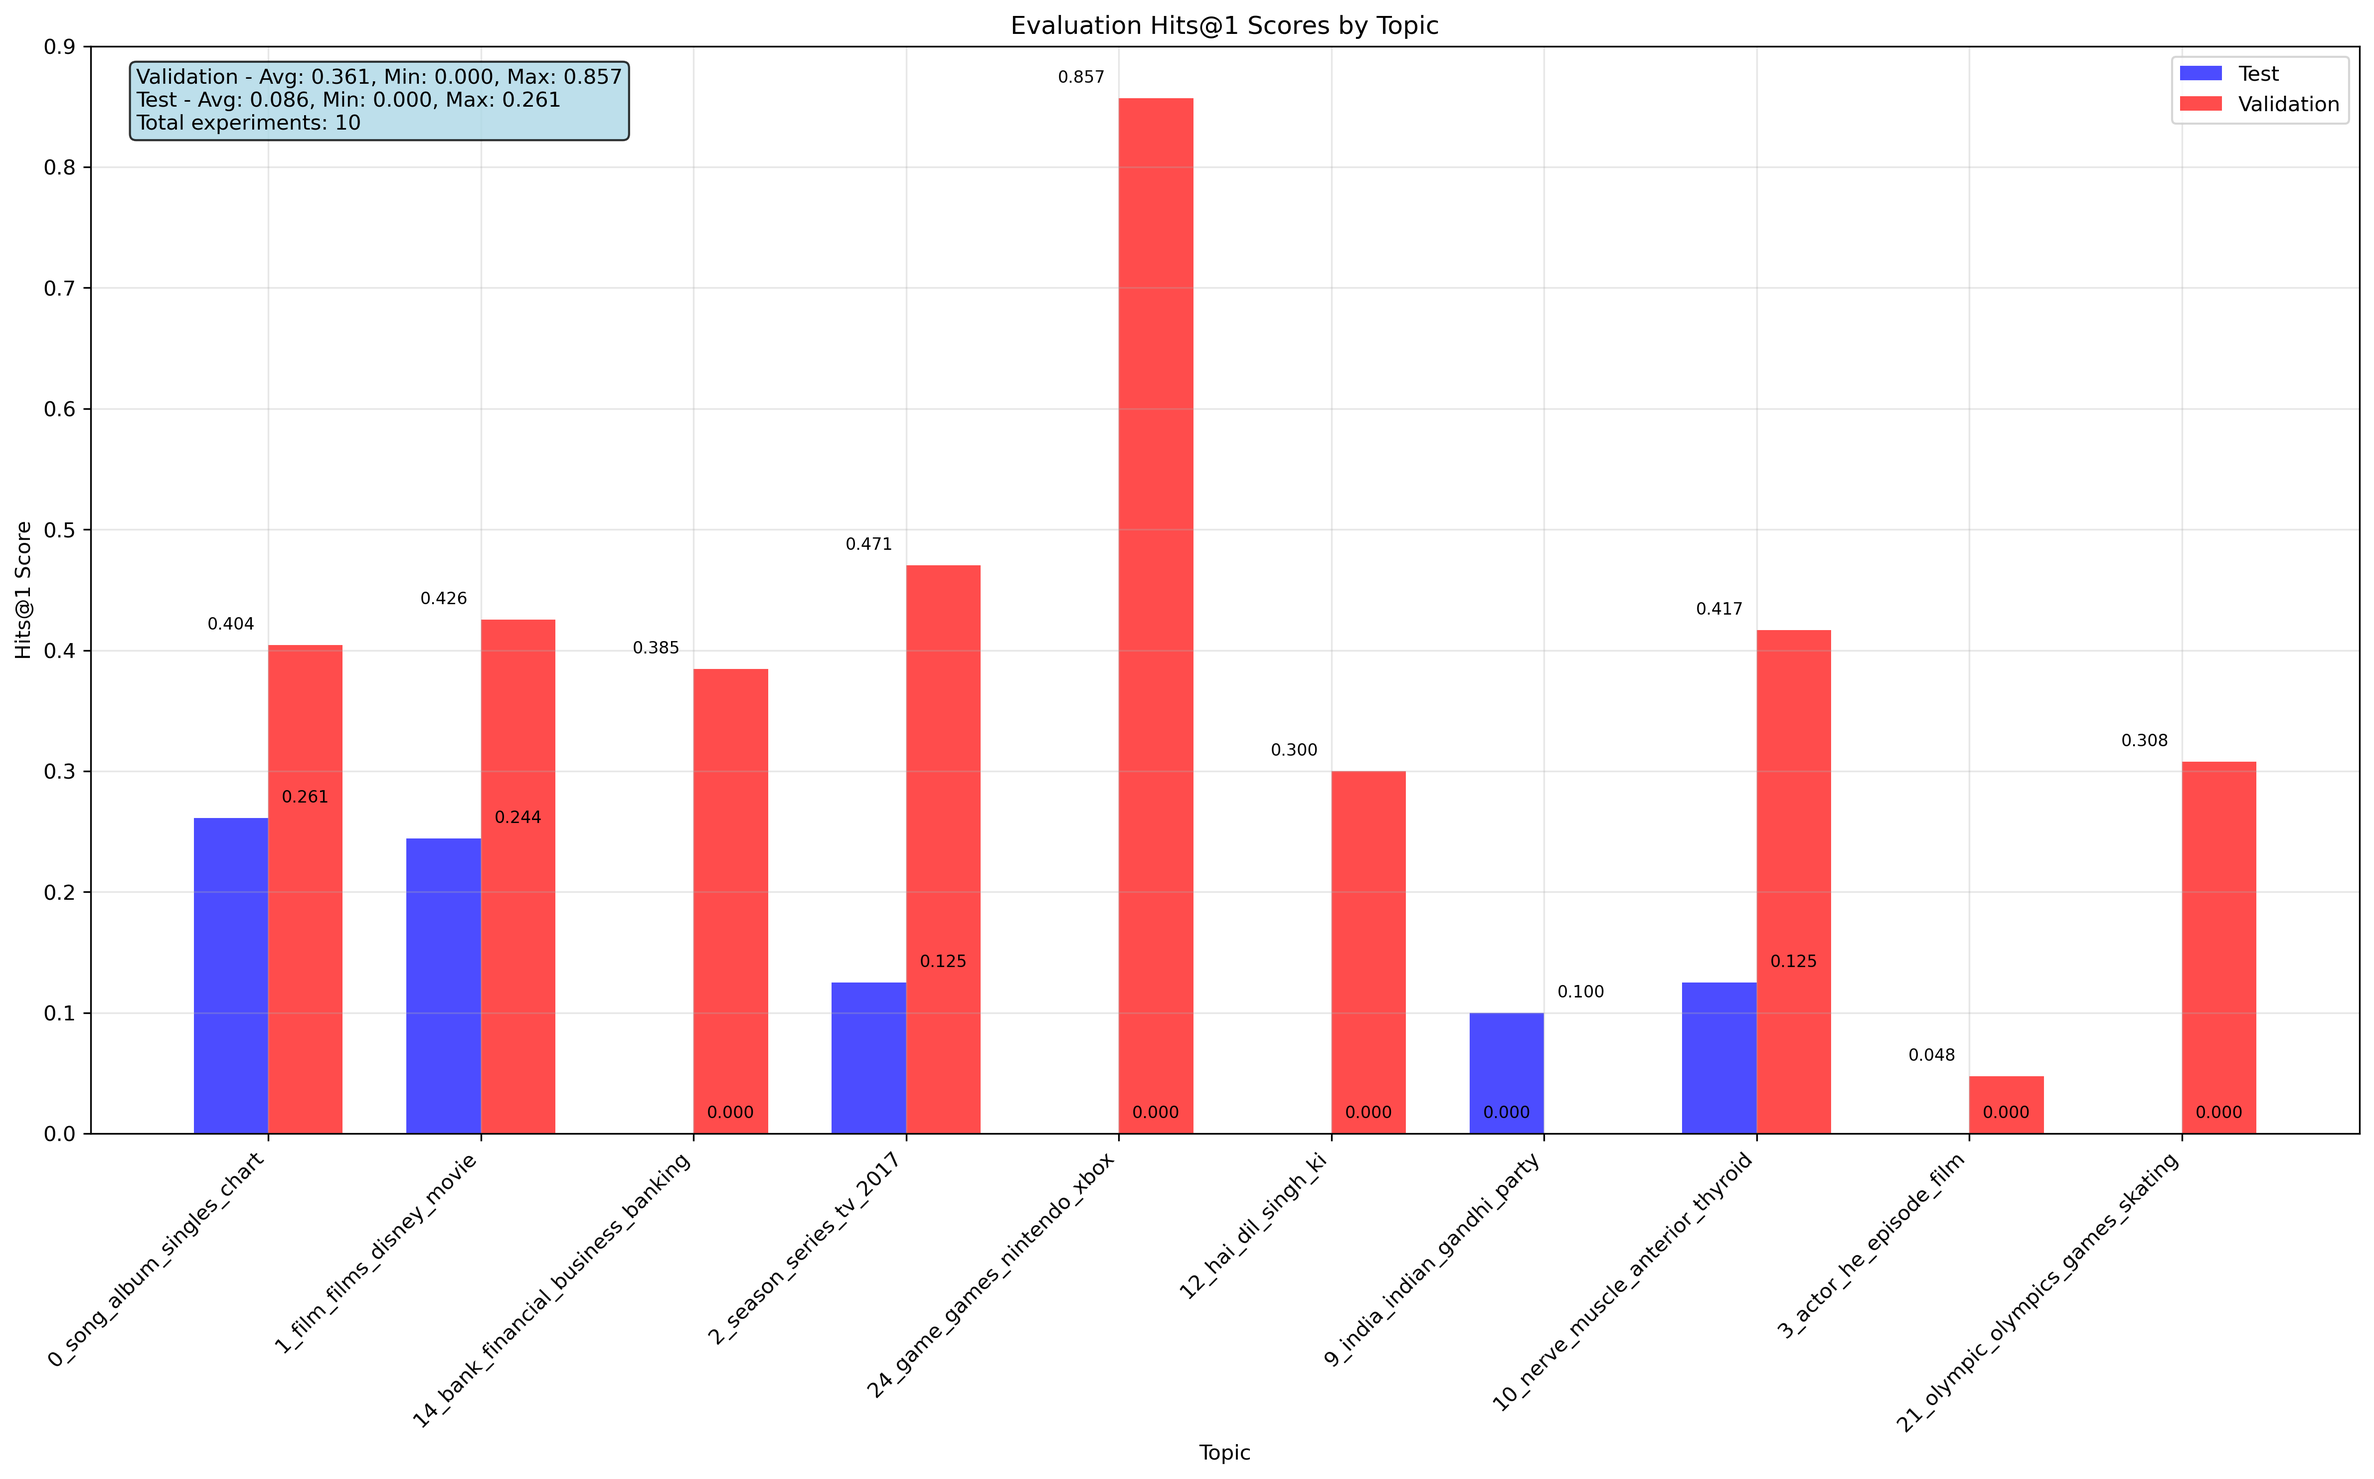
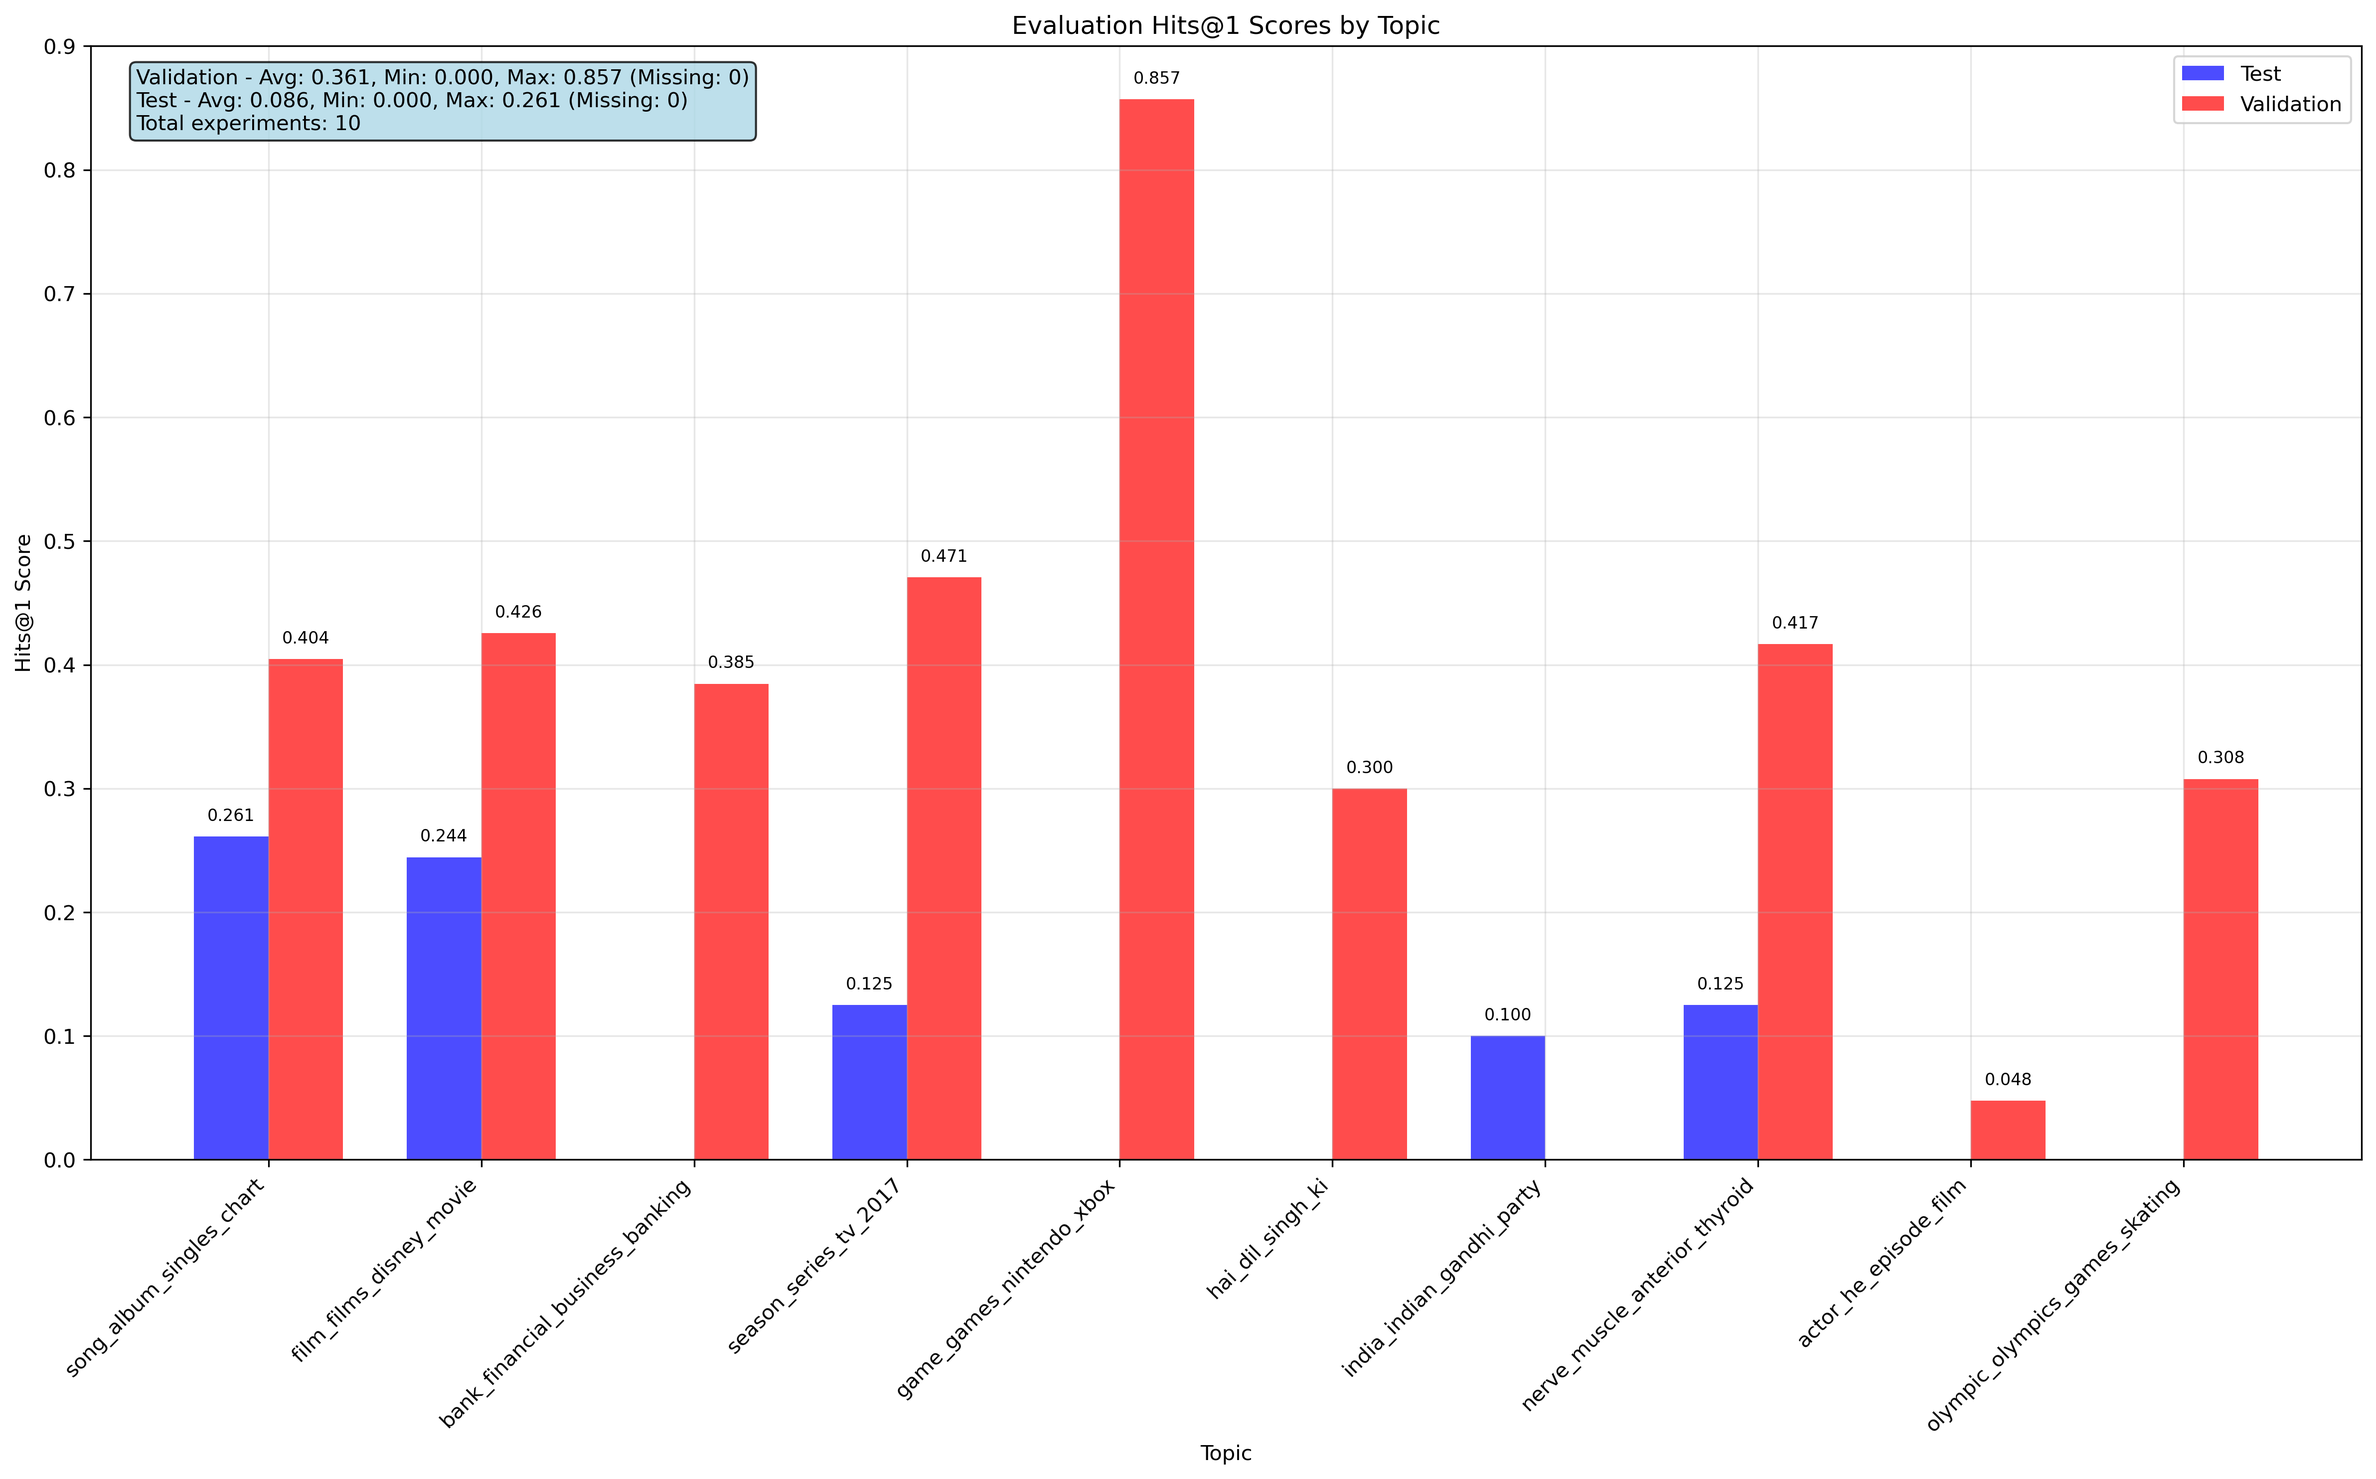
fixed topics visualization to work with the new load data.

diff --git a/causal_ablation/visualize_ablations.py b/causal_ablation/visualize_ablations.py
@@ -16,7 +16,7 @@ def load_experiment_data(experiment_folder):
         experiment_folder (str): Path to the experiment folder
 
     Returns:
-        dict: Dictionary containing the three JSON files' data, threshold if available, and evaluation data if available
+        dict: Dictionary containing the three JSON files' data, threshold if available, evaluation data if available, and topic data if available
     """
     experiment_path = Path(experiment_folder)
 
@@ -42,6 +42,14 @@ def load_experiment_data(experiment_folder):
         with open(threshold_file, 'r') as f:
             threshold_data = json.load(f)
             result['threshold'] = threshold_data.get('threshold')
+
+    # Load topic.json if it exists
+    topic_file = experiment_path / "topic.json"
+    if topic_file.exists():
+        with open(topic_file, 'r') as f:
+            topic_data = json.load(f)
+            result['topic_id'] = topic_data.get('topic_id')
+            result['topic_name'] = topic_data.get('topic_name')
 
     # Load evaluation files if they exist
     v_eval_file = experiment_path / "v_eval.json"
@@ -560,8 +568,9 @@ def create_experiment_similarity_matrix(experiments, save_path="experiment_simil
                 union = len(cannot_ablate_1.union(cannot_ablate_2))
                 similarity_matrix[i, j] = intersection / union if union > 0 else 0
 
-    # Check if experiments have threshold data
+    # Check if experiments have threshold data or topic data
     has_threshold_data = any('threshold' in experiments[name] for name in experiment_names)
+    has_topic_data = any('topic_name' in experiments[name] for name in experiment_names)
 
     if has_threshold_data:
         # Sort experiments by threshold (numeric first ascending), then by name
@@ -589,6 +598,28 @@ def create_experiment_similarity_matrix(experiments, save_path="experiment_simil
                 y_labels.append(name)
         x_axis_label = 'Threshold'
         y_axis_label = 'Threshold'
+    elif has_topic_data:
+        # Sort experiments by topic name for determinism
+        sorted_pairs = sorted([(name, i) for i, name in enumerate(experiment_names)], key=lambda t: experiments[t[0]].get('topic_name', ''))
+        sorted_indices = [i for _, i in sorted_pairs]
+        experiment_names = [name for name, _ in sorted_pairs]
+        similarity_matrix = similarity_matrix[np.ix_(sorted_indices, sorted_indices)]
+
+        # Use topic names for labels (clean up for display)
+        x_labels = []
+        y_labels = []
+        for name in experiment_names:
+            topic_name = experiments[name].get('topic_name', name)
+            if isinstance(topic_name, str) and '_' in topic_name:
+                # Extract the descriptive part after the first underscore
+                clean_name = topic_name.split('_', 1)[1]
+                x_labels.append(clean_name)
+                y_labels.append(clean_name)
+            else:
+                x_labels.append(str(topic_name))
+                y_labels.append(str(topic_name))
+        x_axis_label = 'Topic'
+        y_axis_label = 'Topic'
     else:
         # Optional: sort by experiment name for determinism
         sorted_pairs = sorted([(name, i) for i, name in enumerate(experiment_names)], key=lambda t: t[0])
@@ -695,23 +726,23 @@ def print_experiment_statistics(experiments):
     print(f"  - Average retained per experiment: {total_cannot_ablate / len(experiments):.0f}")
 
 
-def create_topic_vs_cannot_ablate_plot(experiments, save_path="topic_vs_cannot_ablate.png", show_plot=True):
+def create_topic_vs_retained_plot(experiments, save_path="topic_vs_retained.png", show_plot=True):
     """
-    Create a scatter plot showing the relationship between topic names and total cannot_ablate neurons.
-    Only works for topic-based experiments (experiments starting with 't_').
+    Create a scatter plot showing the relationship between topic names and total retained neurons.
+    Only works for experiments that have topic data loaded.
 
     Args:
         experiments (dict): Dictionary of experiment data
         save_path (str): Path to save the visualization
         show_plot (bool): If True, show the plot, otherwise just save
     """
-    print("\nCreating topic vs cannot_ablate neurons plot...")
+    print("\nCreating topic vs retained neurons plot...")
 
-    # Filter experiments that have topic data (start with 't_')
-    topic_experiments = {name: data for name, data in experiments.items() if name.startswith('t_')}
+    # Filter experiments that have topic data loaded
+    topic_experiments = {name: data for name, data in experiments.items() if 'topic_name' in data and 'topic_id' in data}
 
     if not topic_experiments:
-        print("No topic-based experiments found!")
+        print("No experiments with topic data found!")
         return
 
     # Extract topic information and cannot_ablate counts
@@ -721,22 +752,14 @@ def create_topic_vs_cannot_ablate_plot(experiments, save_path="topic_vs_cannot_a
     experiment_names = []
 
     for experiment_name, data in topic_experiments.items():
-        # Load topic.json file for this experiment
-        experiment_path = Path(f"ablation_results/topics/{experiment_name}")
-        topic_file = experiment_path / "topic.json"
+        topic_name = data['topic_name']
+        topic_id = data['topic_id']
+        cannot_ablate_count = len(data['cannot_ablate_neurons'])
 
-        if topic_file.exists():
-            with open(topic_file, 'r') as f:
-                topic_data = json.load(f)
-                topic_name = topic_data.get('topic_name', f'Unknown_{experiment_name}')
-                topic_id = topic_data.get('topic_id', -1)
-
-                cannot_ablate_count = len(data['cannot_ablate_neurons'])
-
-                topic_names.append(topic_name)
-                topic_ids.append(topic_id)
-                cannot_ablate_counts.append(cannot_ablate_count)
-                experiment_names.append(experiment_name)
+        topic_names.append(topic_name)
+        topic_ids.append(topic_id)
+        cannot_ablate_counts.append(cannot_ablate_count)
+        experiment_names.append(experiment_name)
 
     if not topic_names:
         print("No valid topic data found!")
@@ -787,7 +810,7 @@ def create_topic_vs_cannot_ablate_plot(experiments, save_path="topic_vs_cannot_a
 
     plt.tight_layout()
     plt.savefig(save_path, dpi=300, bbox_inches='tight')
-    print(f"Topic vs cannot_ablate plot saved to: {save_path}")
+    print(f"Topic vs retained plot saved to: {save_path}")
     if show_plot:
         plt.show()
 
@@ -822,9 +845,8 @@ def create_evaluation_hits_at_1_plot(experiments, save_path="evaluation_hits_at_
     # Track if we need sequential numbering
     need_sequential_numbering = False
     if not has_threshold_data:
-        # Check if any experiments have topic.json files
-        current_dir = Path.cwd()
-        has_topic_data = any((current_dir / "results" / "topics" / exp / "topic.json").exists() for exp in all_experiments.keys())
+        # Check if any experiments have topic data loaded
+        has_topic_data = any('topic_name' in data for data in all_experiments.values())
         need_sequential_numbering = not has_topic_data
         print(f"Need sequential numbering: {need_sequential_numbering}")
     
@@ -837,23 +859,12 @@ def create_evaluation_hits_at_1_plot(experiments, save_path="evaluation_hits_at_
             x_value = data['threshold']
             x_values.append(x_value)
         else:
-            # Check if topic.json file exists for this experiment in the topics directory
-            current_dir = Path.cwd()
-            topic_file = current_dir / "results" / "topics" / experiment_name / "topic.json"
-            
-            if topic_file.exists():
-                try:
-                    with open(topic_file, 'r') as f:
-                        topic_data = json.load(f)
-                        topic_name = topic_data.get('topic_name', f'Unknown_{experiment_name}')
-                    x_values.append(topic_name)
-                except Exception as e:
-                    print(f"Error reading topic file for {experiment_name}: {e}")
-                    # Fall back to sequential numbering
-                    x_values.append(exp_counter)
-                    exp_counter += 1
+            # Check if topic data is loaded for this experiment
+            if 'topic_name' in data:
+                topic_name = data['topic_name']
+                x_values.append(topic_name)
             else:
-                # If no topic.json exists and no threshold data, use sequential numbering
+                # If no topic data loaded and no threshold data, use sequential numbering
                 if need_sequential_numbering:
                     print(f"Using sequential numbering for {experiment_name}: {exp_counter}")
                     x_values.append(exp_counter)
@@ -916,10 +927,8 @@ def create_evaluation_hits_at_1_plot(experiments, save_path="evaluation_hits_at_
         x_axis_label = 'Threshold'
         title_suffix = 'by Threshold'
     else:
-        # Check if we have topic data or experiment numbers
-        current_dir = Path.cwd()
-        has_topic_data = any((current_dir / "results" / "topics" / exp / "topic.json").exists() for exp in experiment_names)
-        print(f"Current directory: {current_dir}")
+        # Check if we have topic data loaded or experiment numbers
+        has_topic_data = any('topic_name' in all_experiments[exp] for exp in experiment_names)
         print(f"Has topic data: {has_topic_data}")
         if has_topic_data:
             x_axis_label = 'Topic'
@@ -938,12 +947,20 @@ def create_evaluation_hits_at_1_plot(experiments, save_path="evaluation_hits_at_
         plt.xticks(x, [f'{val:.0f}' if isinstance(val, (int, float)) else str(val) for val in x_values], rotation=0,
                    ha='center')
     else:
-        # Check if we have topic data or experiment numbers
-        current_dir = Path.cwd()
-        has_topic_data = any((current_dir / "results" / "topics" / exp / "topic.json").exists() for exp in experiment_names)
+        # Check if we have topic data loaded or experiment numbers
+        has_topic_data = any('topic_name' in all_experiments[exp] for exp in experiment_names)
         if has_topic_data:
-            # Use topic names from topic.json directly when available
-            plt.xticks(x, x_values, rotation=0, ha='center')
+            # Use topic names from loaded data when available
+            # Clean up topic names for better display (remove prefix numbers)
+            clean_topic_names = []
+            for val in x_values:
+                if isinstance(val, str) and '_' in val:
+                    # Extract the descriptive part after the first underscore
+                    clean_name = val.split('_', 1)[1]
+                    clean_topic_names.append(clean_name)
+                else:
+                    clean_topic_names.append(str(val))
+            plt.xticks(x, clean_topic_names, rotation=45, ha='right')
         else:
             # Use sequential experiment numbers as x-axis labels
             plt.xticks(x, x_values, rotation=0, ha='center')
@@ -1264,13 +1281,13 @@ def main():
     parser = argparse.ArgumentParser(description='Visualize ablation experiment results')
     parser.add_argument('--experiments_path',
                         type=str,
-                        default=r'C:\projects\transformers\236004-HW1-GPT\ablation_results',
-                        help='Path to the folder containing experiment folders (default: C:\\projects\\transformers\\236004-HW1-GPT\\ablation_results)')
+                        default='results',
+                        help='Path to the folder containing experiment folders (default: results)')
     parser.add_argument('--visualizations',
                         type=str,
                         nargs='+',
                         choices=['all', 'heatmap', 'layer_dist', 'similarity', 'ratio_dist', 'best_experiment', 'per_experiment_layers', 'all_experiments_layers',
-                                 'threshold_vs_cannot_ablate', 'topic_vs_cannot_ablate', 'topic_stats',
+                                 'threshold_vs_cannot_ablate', 'topic_vs_retained', 'topic_stats',
                                  'evaluation_hits_at_1'],
                         default=['all'],
                         help='Which visualizations to create (default: all)')
@@ -1315,7 +1332,7 @@ def main():
     # Determine which visualizations to run
     if 'all' in args.visualizations:
         visualizations_to_run = ['heatmap', 'layer_dist', 'similarity', 'ratio_dist', 'best_experiment',
-                                 'threshold_vs_cannot_ablate', 'topic_vs_cannot_ablate', 'topic_stats',
+                                 'threshold_vs_cannot_ablate', 'topic_vs_retained', 'topic_stats',
                                  'evaluation_hits_at_1', 'per_experiment_layers', 'all_experiments_layers']
     else:
         visualizations_to_run = args.visualizations
@@ -1348,8 +1365,8 @@ def main():
         create_threshold_vs_cannot_ablate_plot(experiments, str(visualizations_dir / "threshold_vs_cannot_ablate.png"),
                                                show_plot=not args.no_show)
 
-    if 'topic_vs_cannot_ablate' in visualizations_to_run:
-        create_topic_vs_cannot_ablate_plot(experiments, str(visualizations_dir / "topic_vs_cannot_ablate.png"),
+    if 'topic_vs_retained' in visualizations_to_run:
+        create_topic_vs_retained_plot(experiments, str(visualizations_dir / "topic_vs_retained.png"),
                                            show_plot=not args.no_show)
 
     if 'topic_stats' in visualizations_to_run:
